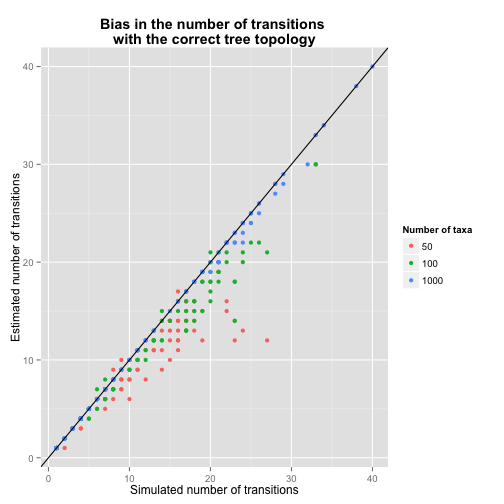
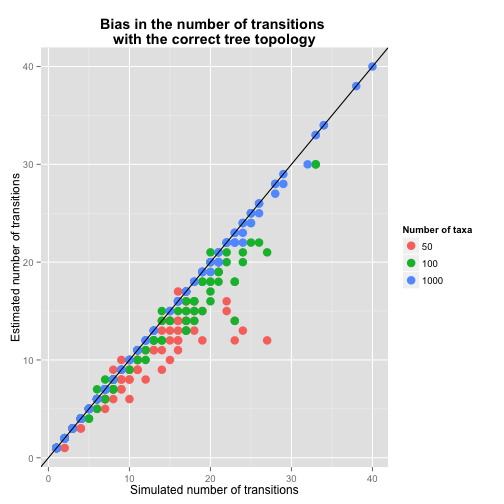
added first set of simulations

diff --git a/inherent_bias/README.md b/inherent_bias/README.md
@@ -24,7 +24,7 @@ n_taxa <- relevel(n_taxa, '50')
 
 sim_data <- cbind(rbind(sim_50, sim_100, sim_1000), n_taxa)
 
-plot_A <- ggplot(sim_data, aes(y = est_trans, x = sim_trans, colour = n_taxa)) + geom_point(size = 2) + ylab('Estimated number of transitions') + xlab('Simulated number of transitions') +  scale_colour_discrete(name = 'Number of taxa') + ggtitle('Bias in the number of transitions \nwith the correct tree topology') + theme(plot.title = element_text(face = 'bold')) + geom_abline(intercept = 0, slope = 1)
+plot_A <- ggplot(sim_data, aes(y = est_trans, x = sim_trans, colour = n_taxa)) + geom_point(size = 4) + ylab('Estimated number of transitions') + xlab('Simulated number of transitions') +  scale_colour_discrete(name = 'Number of taxa') + ggtitle('Bias in the number of transitions \nwith the correct tree topology') + theme(plot.title = element_text(face = 'bold')) + geom_abline(intercept = 0, slope = 1)
 
 #pdf('inherent_bias_plot.pdf', useDingbats = T)
 print(plot_A)
